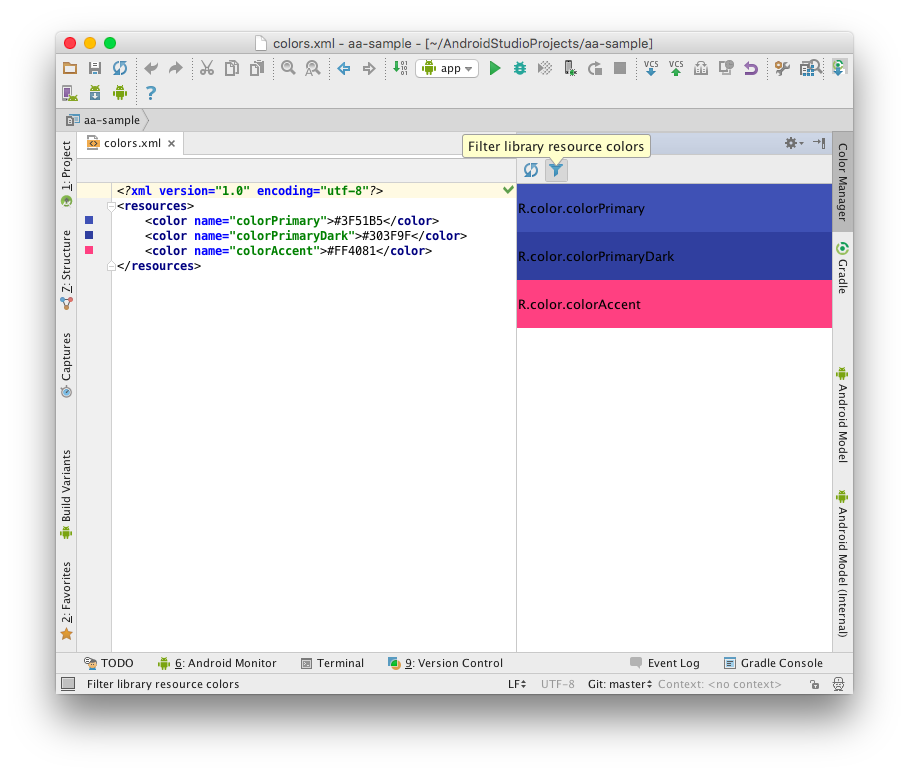
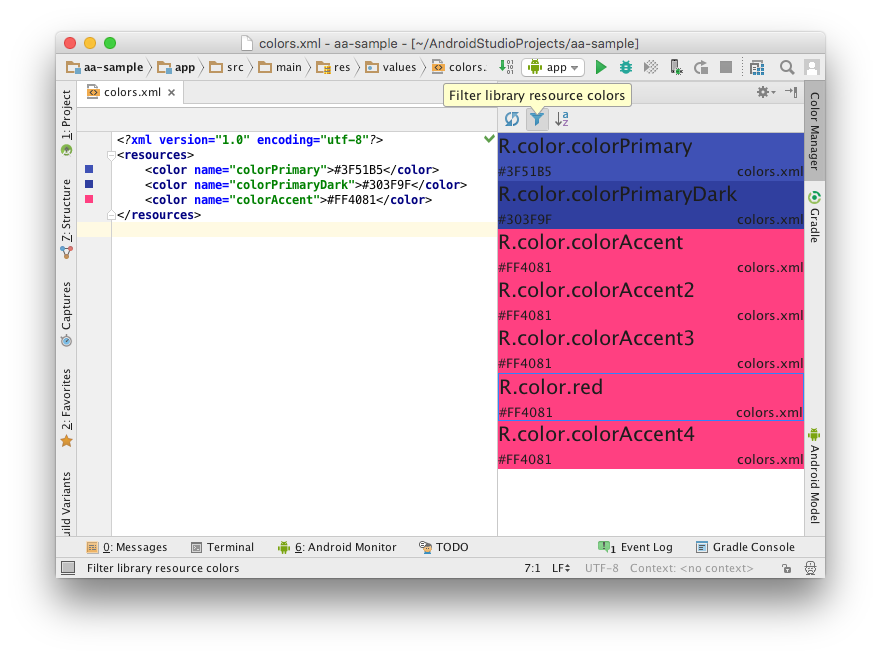
Update images and add sort section to README

Changed region(s): [[0.0613, 0.0304, 0.9501, 0.9119], [0.5516, 0.7903, 0.5823, 0.8207]]

diff --git a/README.md b/README.md
@@ -34,6 +34,14 @@ You can un-filter those by clicking "Filter" icon (It takes a few second to show
 
 ![no_filter](website/images/no_filter.png)
 
+## Sort by color name
+
+You can sort by color name by clicking sort icon
+
+![no_sort](website/images/no_sort.png)
+
+![sort](website/images/sort.png)
+
 # How to install?
 
 Use the IDE's plugin manager to install the latest version of the plugin.
